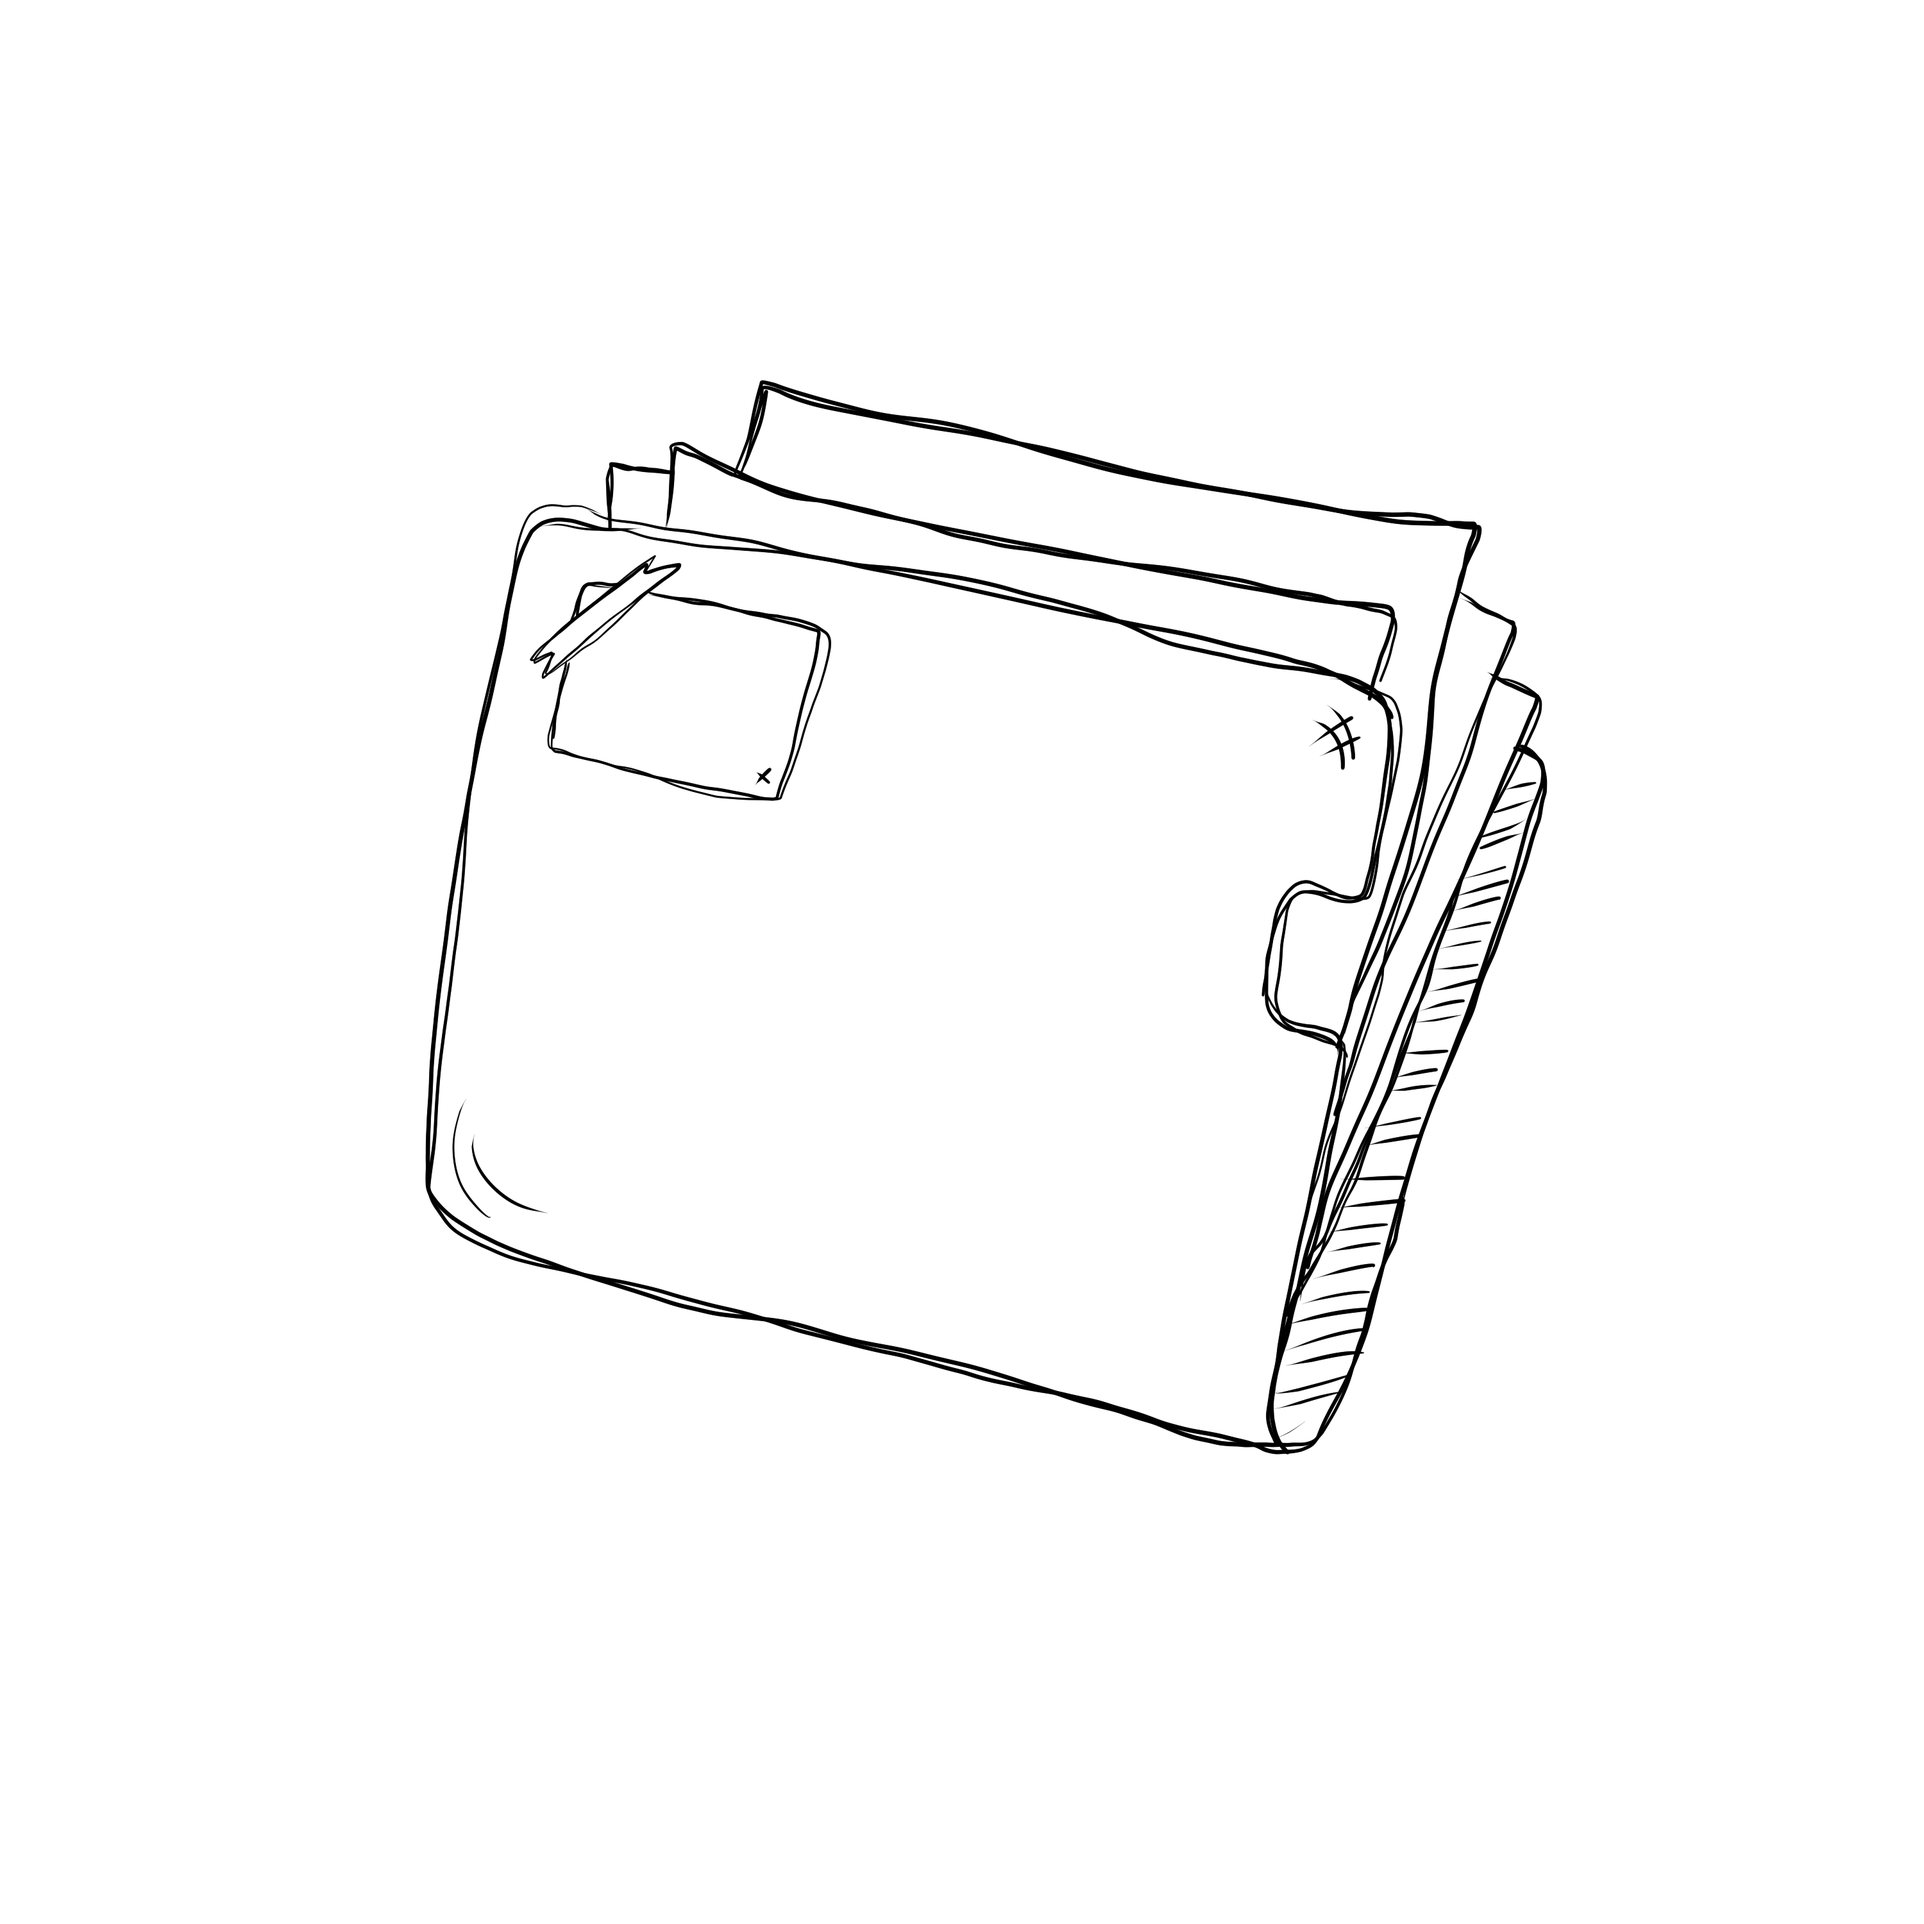
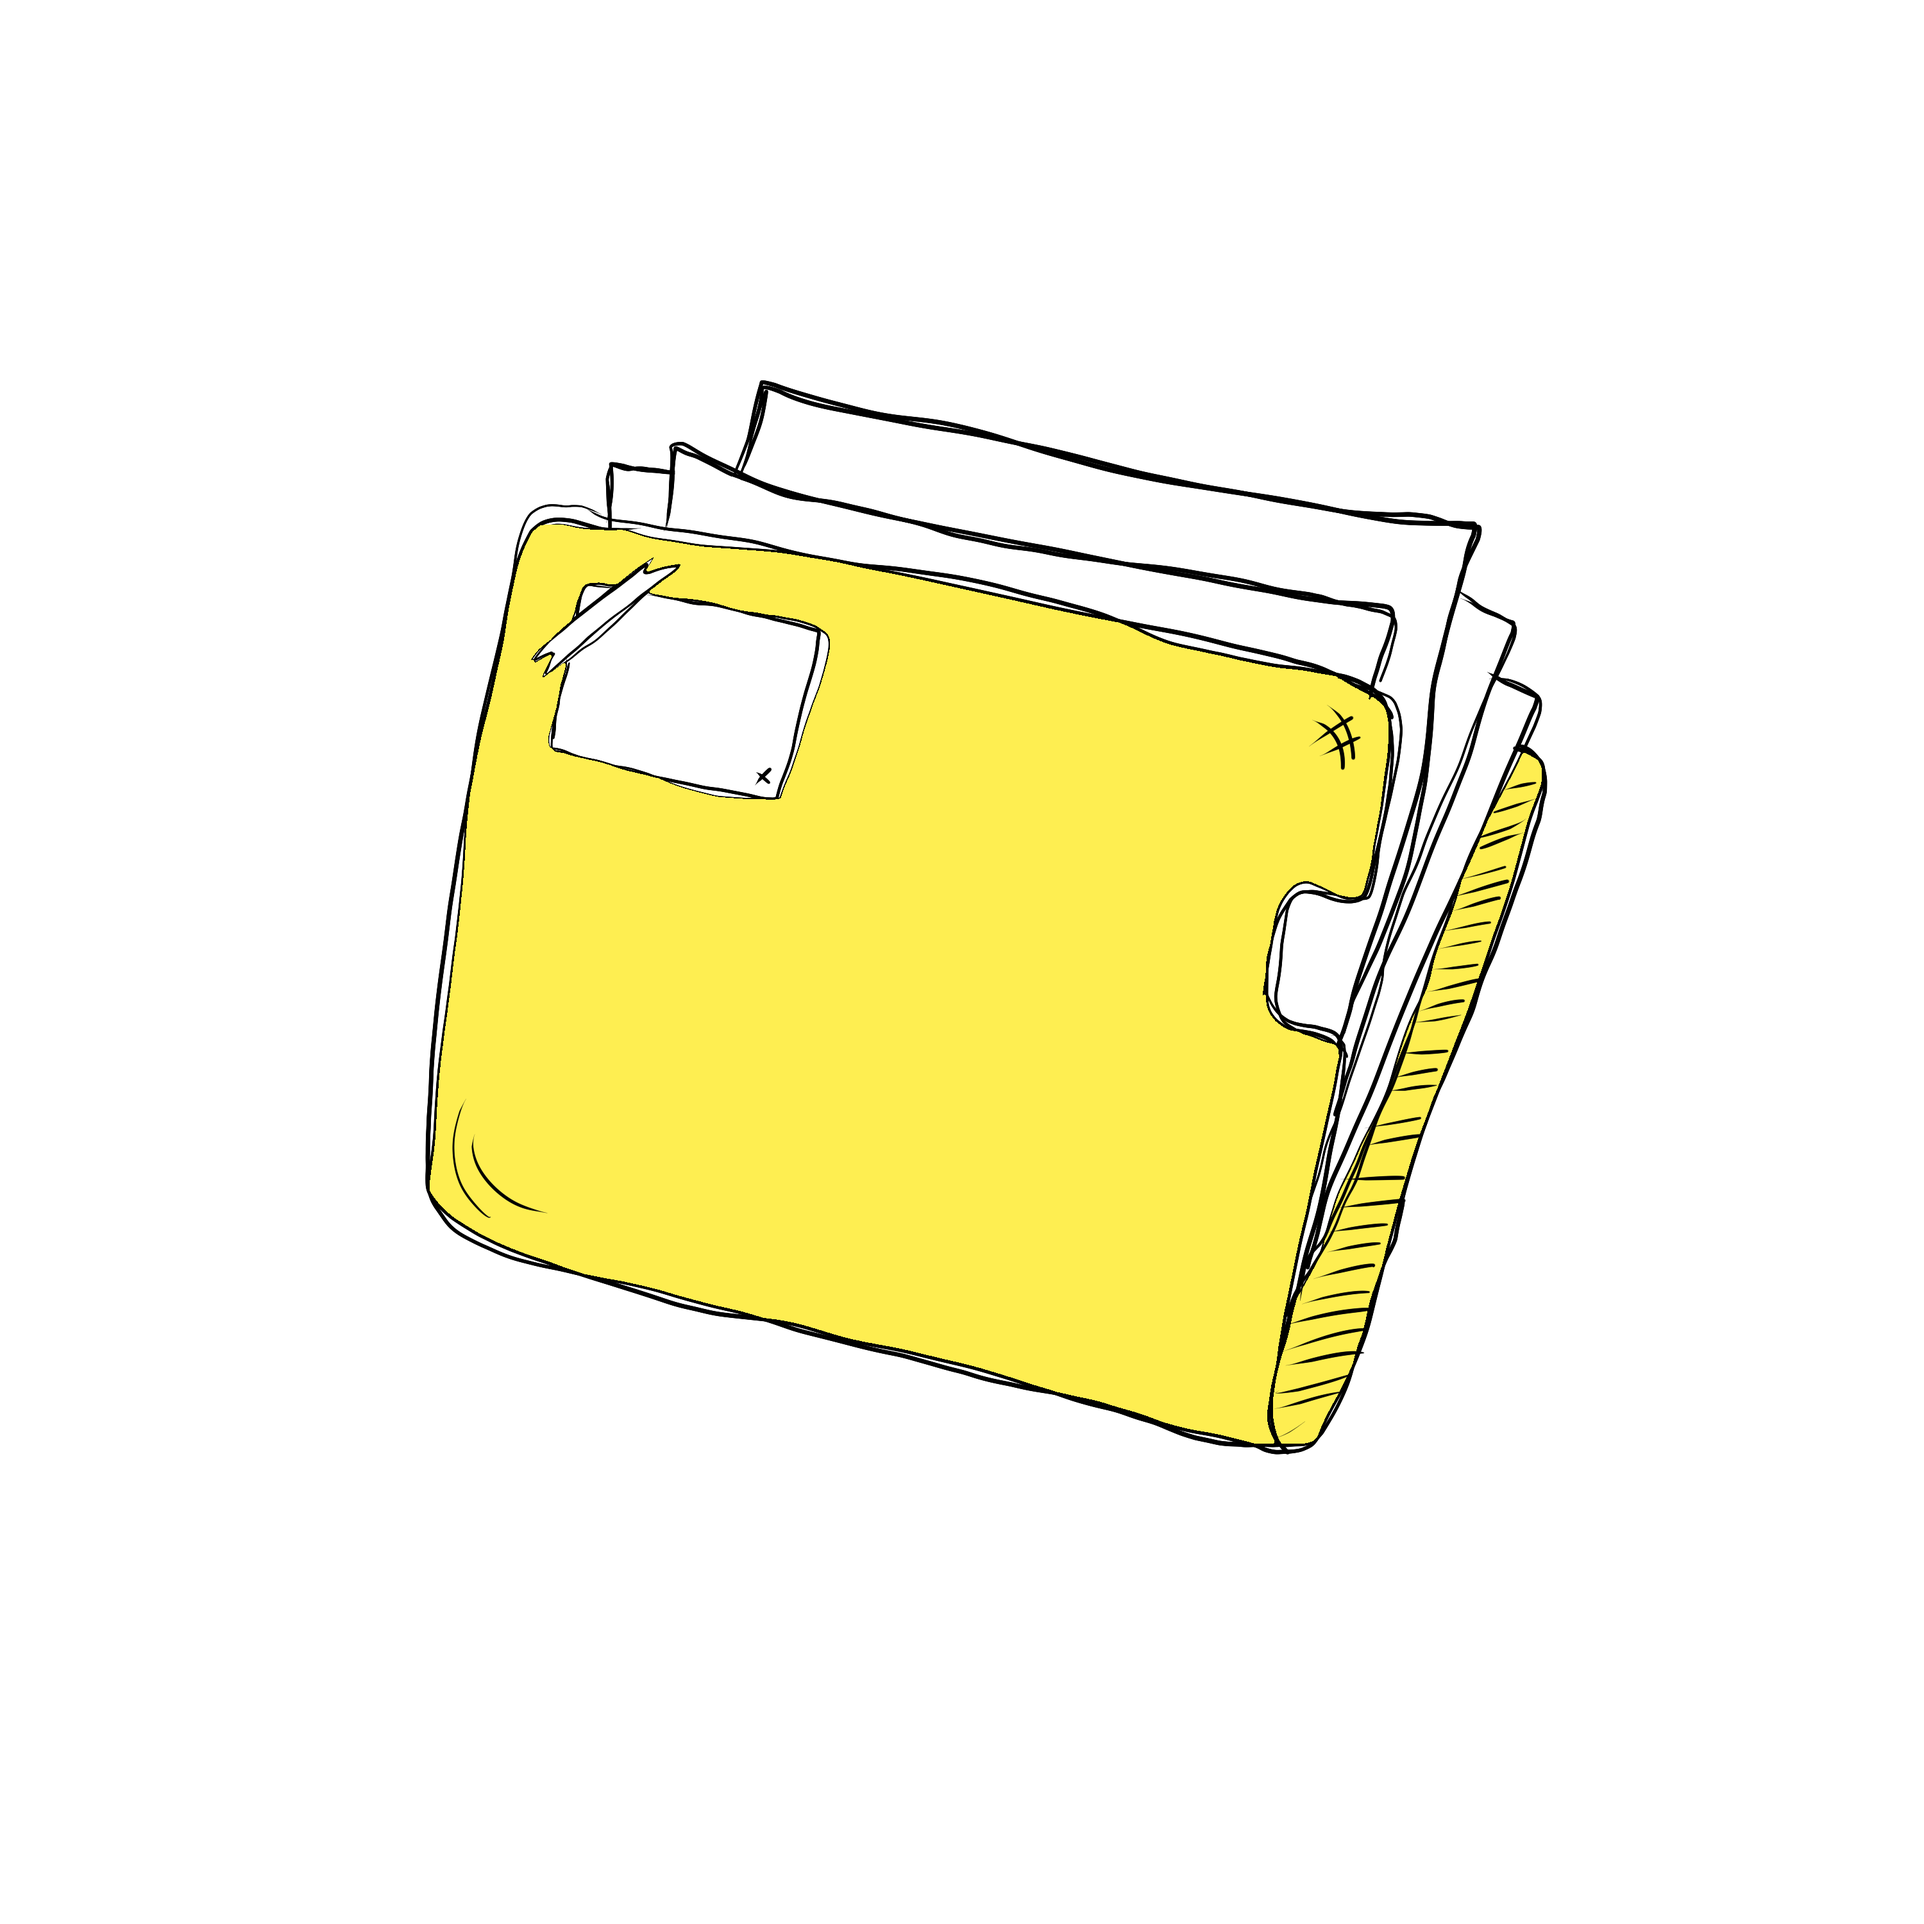
projetos

Changed region(s): [[0.217, 0.248, 0.806, 0.775]]

diff --git a/src/pages/projetos/index.html b/src/pages/projetos/index.html
@@ -1,0 +1,83 @@
+<!DOCTYPE html>
+<html lang="en">
+<head>
+  <meta charset="UTF-8">
+  <meta name="viewport" content="width=device-width, initial-scale=1.0">
+  <title>Projetos Desktop</title>
+  <link rel="stylesheet" href="/src/shared/styles/global.css">
+  <style>
+    #desktopContainer {
+      display: flex;
+      justify-content: center;
+      align-items: center;
+      gap: 1vw;
+      width: 100%;
+      height: 100%;
+      padding: 1vw;
+      box-sizing: border-box;
+    }
+    .desktop-item {
+      --icon-size: clamp(420px, 60vw, 880px);
+      flex: 1;
+      max-width: 700px;
+      min-width: 180px;
+      display: flex;
+      flex-direction: column;
+      align-items: center;
+      transition: transform 0.1s;
+    }
+    .desktop-item:active { transform: scale(0.98); }
+    .icon-wrapper {
+      position: relative;
+      width: var(--icon-size);
+      aspect-ratio: 1 / 1;
+      padding-bottom: 0;
+      margin-bottom: 0px;
+      overflow: hidden;
+    }
+    .desktop-icon {
+      position: absolute;
+      top: 0; left: 0;
+      width: 100%; height: 100%;
+      object-fit: contain;
+      transition: opacity 0.2s;
+    }
+    .icon-base { opacity: 1; }
+    .icon-active { opacity: 0; }
+    .icon-label {
+      font-family: 'Thata', sans-serif;
+      font-size: calc(var(--icon-size) / 9);
+      color: #000000;
+      text-align: center;
+      text-shadow: none;
+      padding: 0;
+      margin-top: 0;
+      transform: translateY(calc(var(--icon-size) * -0.28));
+      min-height: 0.8em;
+      line-height: 0.9;
+      display: flex;
+      align-items: flex-start;
+      justify-content: center;
+      width: 100%;
+    }
+    .desktop-item.hovered .icon-label { }
+  </style>
+</head>
+<body>
+  <div class="lds-facebook">
+    <div></div><div></div><div></div>
+  </div>
+  <div id="desktopContainer"></div>
+
+  <script type="module">
+    import { initMenuDesktop } from '/src/shared/desktop/menuDesktop.js';
+    import config from '/src/data/projetos.json';
+
+    document.addEventListener("DOMContentLoaded", () => {
+      const container = document.getElementById('desktopContainer');
+      const { init } = initMenuDesktop(config);
+      init(container);
+    });
+  </script>
+</body>
+</html>

diff --git a/src/shared/desktop/menuDesktop.js b/src/shared/desktop/menuDesktop.js
@@ -69,13 +69,21 @@ export function initMenuDesktop(config) {
       const iconWrapper = document.createElement('div');
       iconWrapper.classList.add('icon-wrapper');
 
+      const iconScale = item.iconScale ?? 1;
+
       const imgBase = document.createElement('img');
       imgBase.src = item.baseImage;
       imgBase.classList.add('desktop-icon', 'icon-base');
+      if (iconScale !== 1) {
+        imgBase.style.transform = `scale(${iconScale})`;
+      }
 
       const imgActive = document.createElement('img');
       imgActive.src = item.activeImage;
       imgActive.classList.add('desktop-icon', 'icon-active');
+      if (iconScale !== 1) {
+        imgActive.style.transform = `scale(${iconScale})`;
+      }
 
       iconWrapper.appendChild(imgBase);
       iconWrapper.appendChild(imgActive);
@@ -85,6 +93,11 @@ export function initMenuDesktop(config) {
       label.textContent = item.label;
       if (labelStyle === 'none') {
         label.style.display = 'none';
+      }
+
+      const labelScale = item.labelScale ?? 1;
+      if (labelScale !== 1) {
+        label.style.fontSize = `calc(var(--icon-size) / 9 * ${labelScale})`;
       }
 
       itemDiv.appendChild(iconWrapper);

diff --git a/vite.config.js b/vite.config.js
@@ -9,6 +9,7 @@ const pageInputs = {
   'filme-fotografico': resolve(__dirname, 'src/pages/filme-fotografico/index.html'),
   pastas: resolve(__dirname, 'src/pages/pastas/index.html'),
   'mesa-arquitetura': resolve(__dirname, 'src/pages/mesa-arquitetura/index.html'),
+  projetos: resolve(__dirname, 'src/pages/projetos/index.html'),
   index: resolve(__dirname, 'src/pages/index.html'),
 };
 

diff --git a/src/pages/index.html b/src/pages/index.html
@@ -22,6 +22,7 @@
     <li><a href="filme-fotografico/index.html">Filme Fotográfico (Scene)</a></li>
     <li><a href="pastas/index.html">Pastas (Desktop Grid)</a></li>
     <li><a href="mesa-arquitetura/index.html">Mesa Arquitetura (Draggable Table)</a></li>
+    <li><a href="projetos/index.html">Projetos (Desktop Grid)</a></li>
   </ul>
 </body>
 </html>

diff --git a/scripts/build-singlefile.js b/scripts/build-singlefile.js
@@ -7,6 +7,7 @@ const pages = [
   'filme-fotografico',
   'pastas',
   'mesa-arquitetura',
+  'projetos',
   'index'
 ];
 
